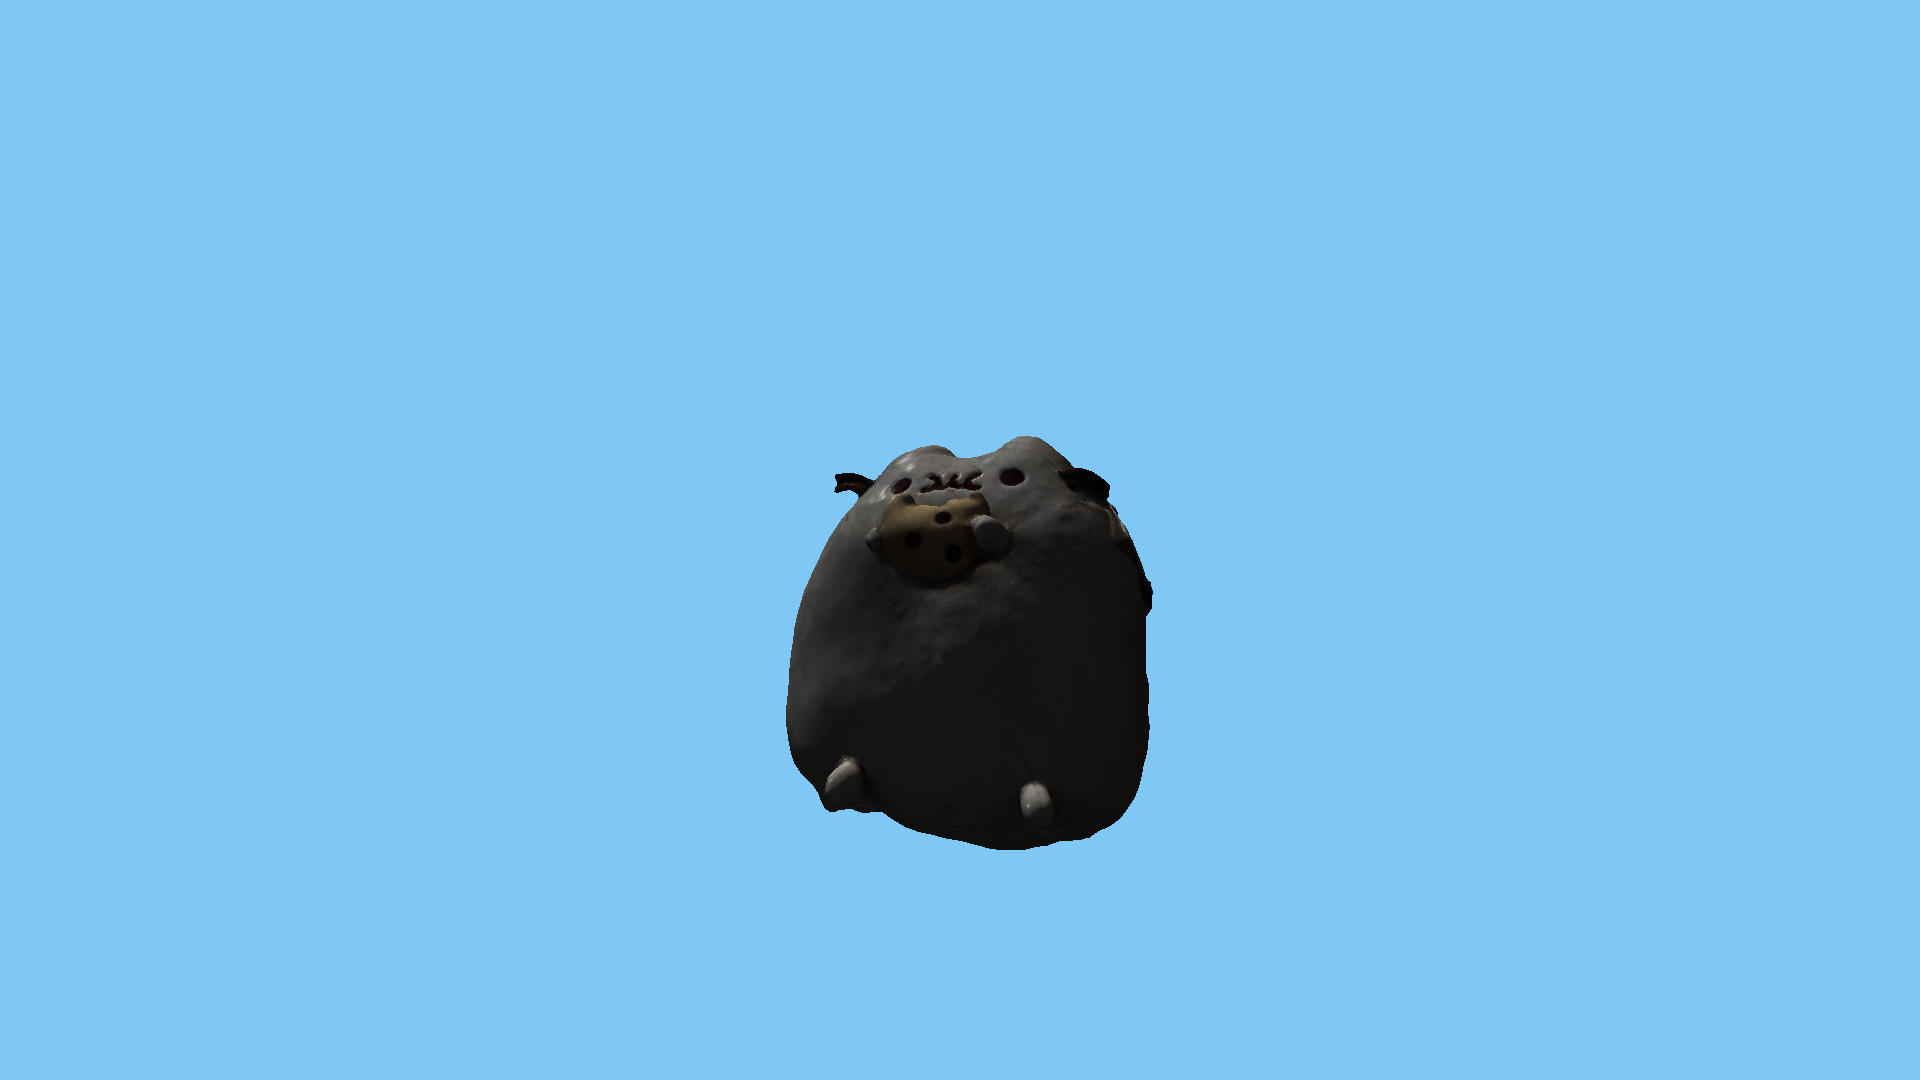
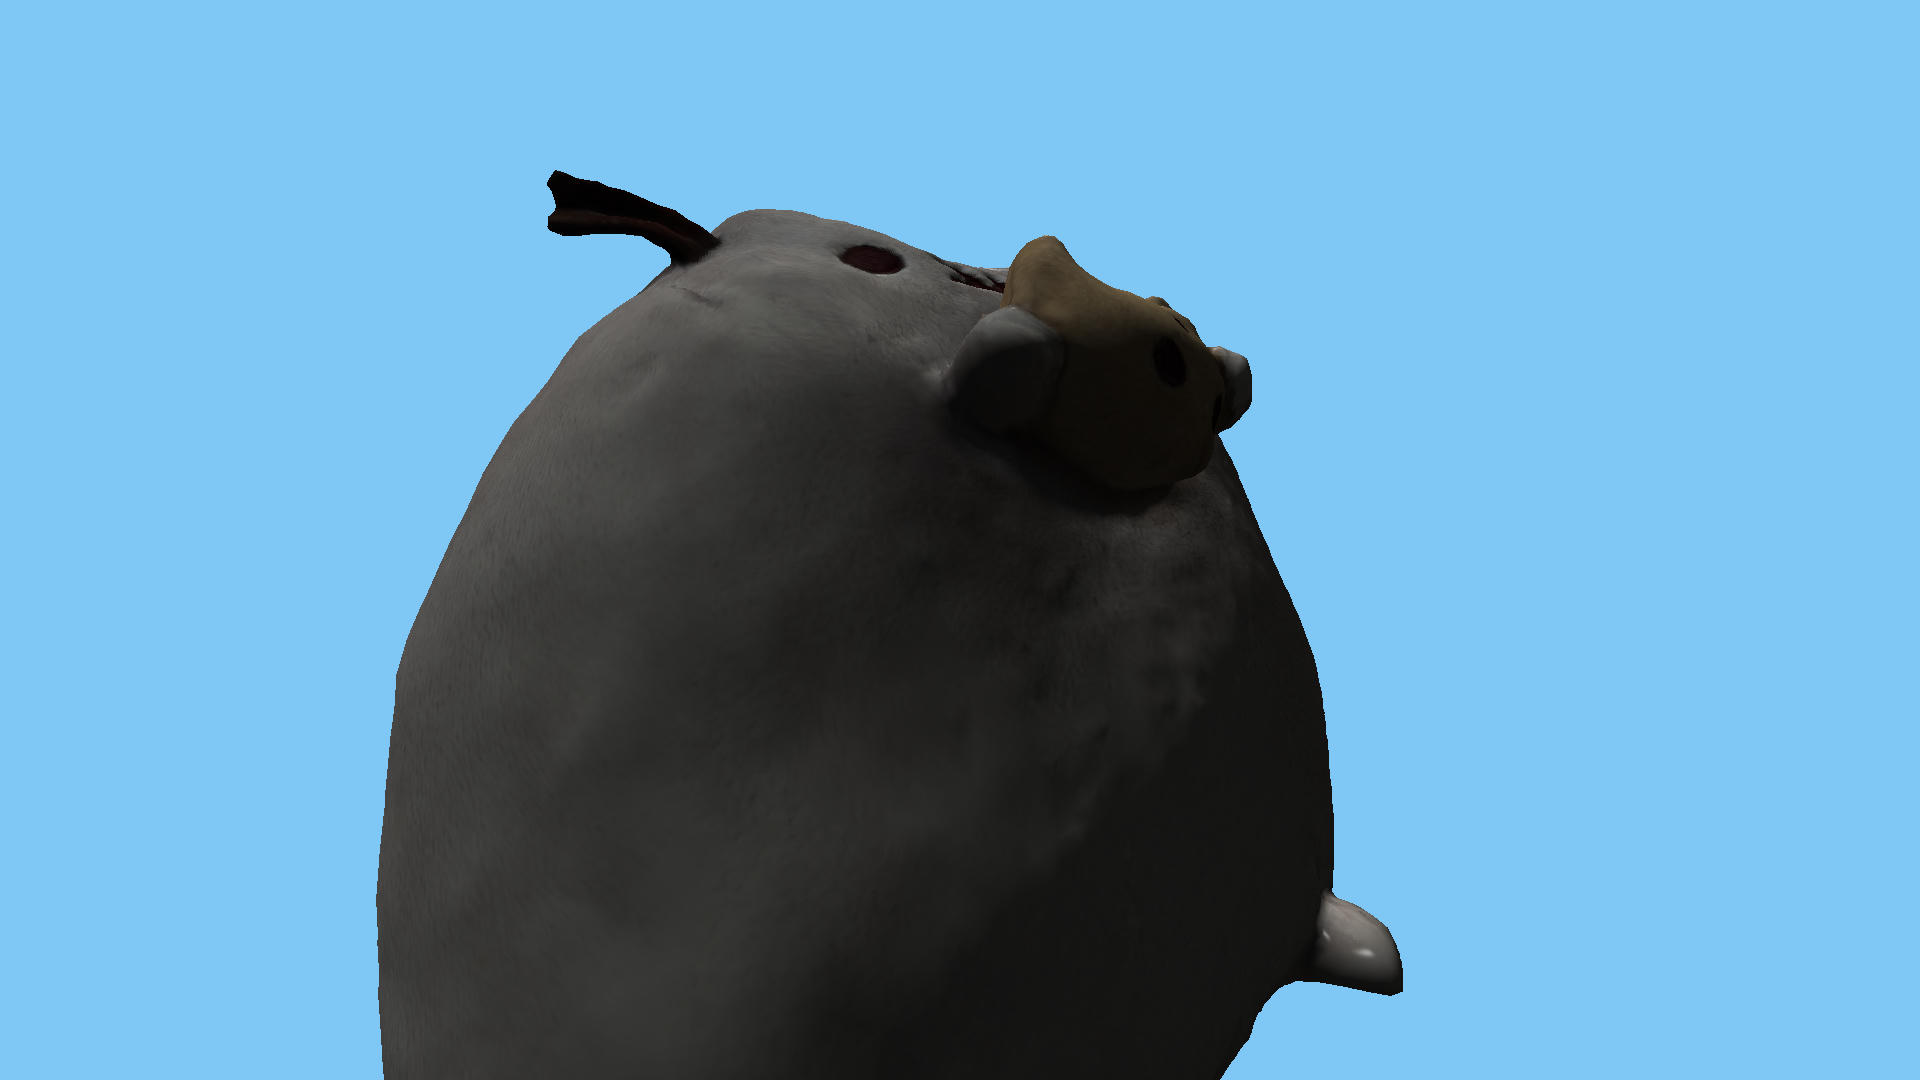
scaling + dodelano

Changed region(s): [[0.1875, 0.1528, 0.75, 1.0]]

diff --git a/src/main.rs b/src/main.rs
@@ -59,6 +59,7 @@ fn main() {
     // cam.dir = look_at_quat(cam.pos, Vec3::ZERO, Vec3::Y);
 
     let mut y = 0f32;
+    let mut scale = 1f32;
     while win.is_open() && !win.is_key_down(Key::Escape) {
         world.begin_frame();
 
@@ -69,12 +70,19 @@ fn main() {
             ));
         }
 
-        if win.is_key_pressed(Key::Left, KeyRepeat::Yes) {
-            y -= world.delta_time() * 190.;
-        } else if win.is_key_pressed(Key::Right, KeyRepeat::Yes) {
-            y += world.delta_time() * 190.;
+        if win.is_key_down(Key::Left) {
+            y -= world.delta_time() * 190. * if win.is_key_down(Key::LeftShift) { 5. } else { 1. };
+        } else if win.is_key_down(Key::Right) {
+            y += world.delta_time() * 190. * if win.is_key_down(Key::LeftShift) { 5. } else { 1. };
         }
 
+        if win.is_key_down(Key::Down) {
+            scale -= world.delta_time();
+        } else if win.is_key_down(Key::Up) {
+            scale += world.delta_time();
+        }
+
+        tf.scl = Vec3::ONE * scale;
         tf.rot = Quat::from_rotation_y(y.to_radians());
         world.draw_object(&pusheen, tf);
 

diff --git a/README.md b/README.md
@@ -3,7 +3,7 @@
 небольшой софтварный растеризатор на расте. еще у него
 простенькая система мира и трансформов, можно наспавнить
 объектов, заставить их крутиться и тп. можно сделать рендер 
-(в разрешении 1920x1080) на кнопку R (пока не сделано).
+(в разрешении 1920x1080) на кнопку R.
 
 на стрелочки влево-вправо объект крутить.
 
